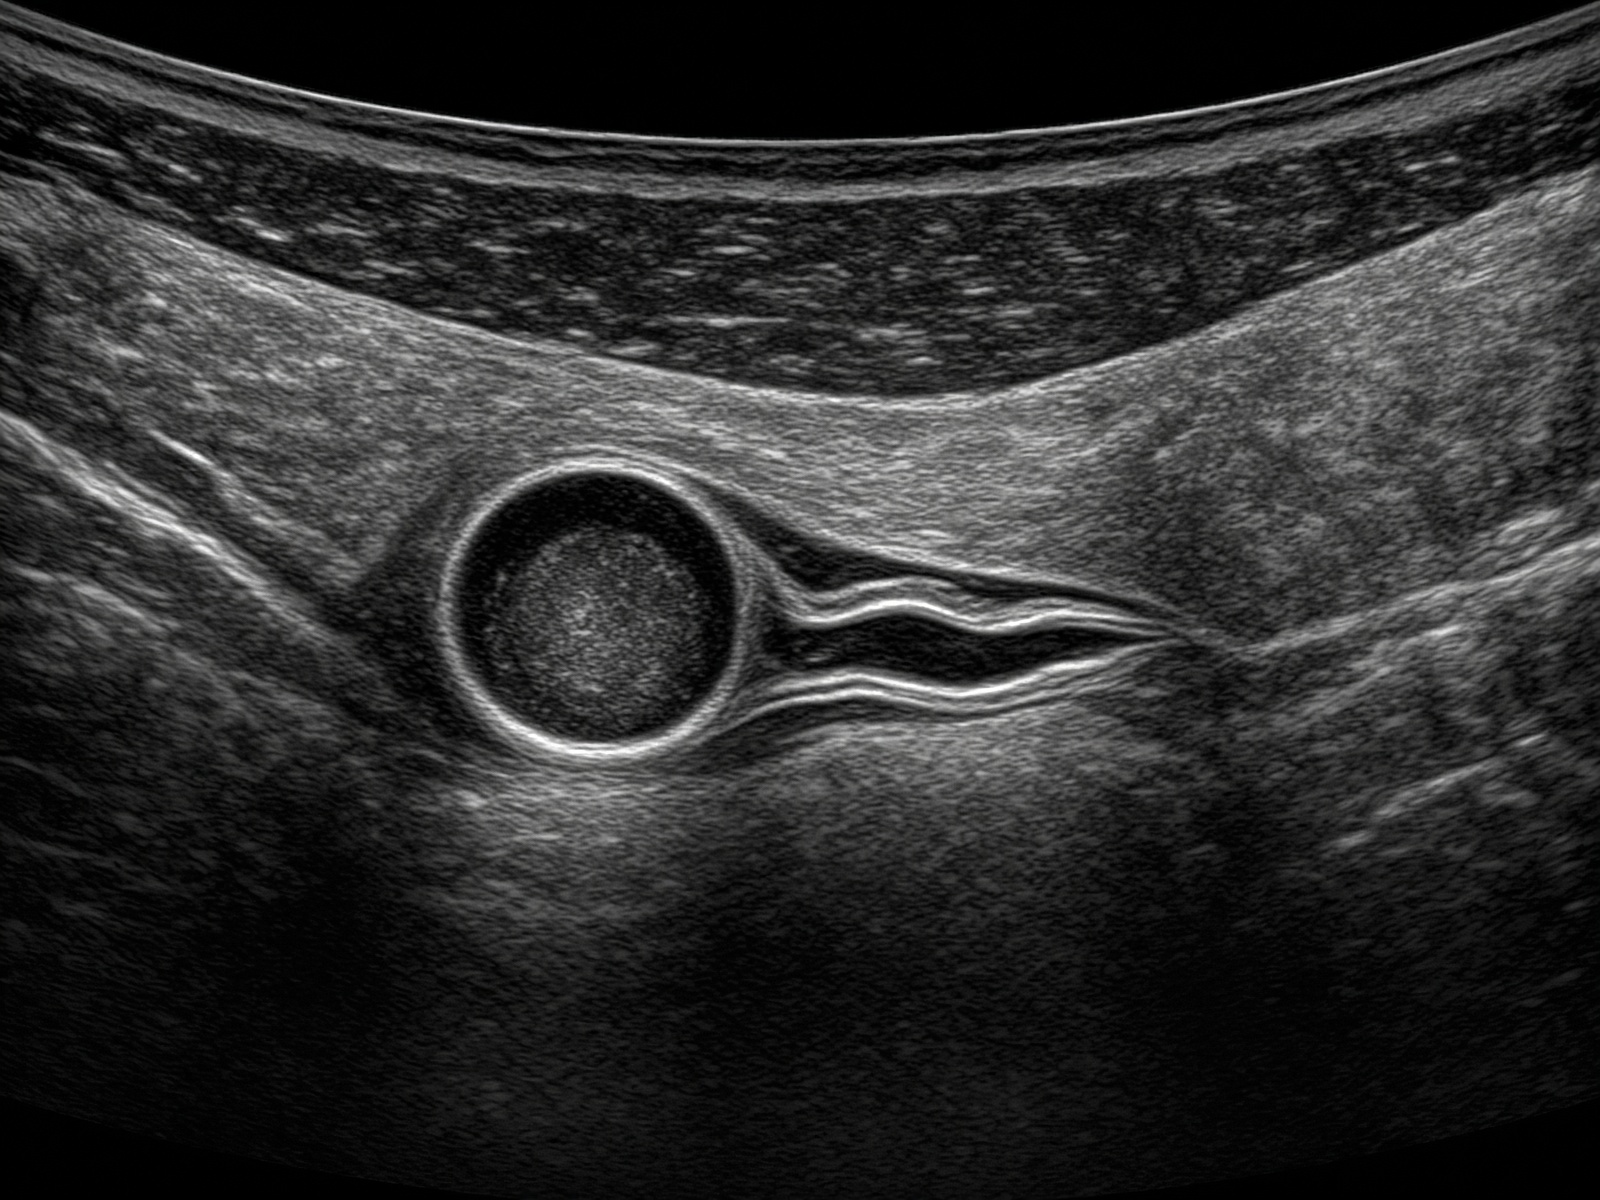
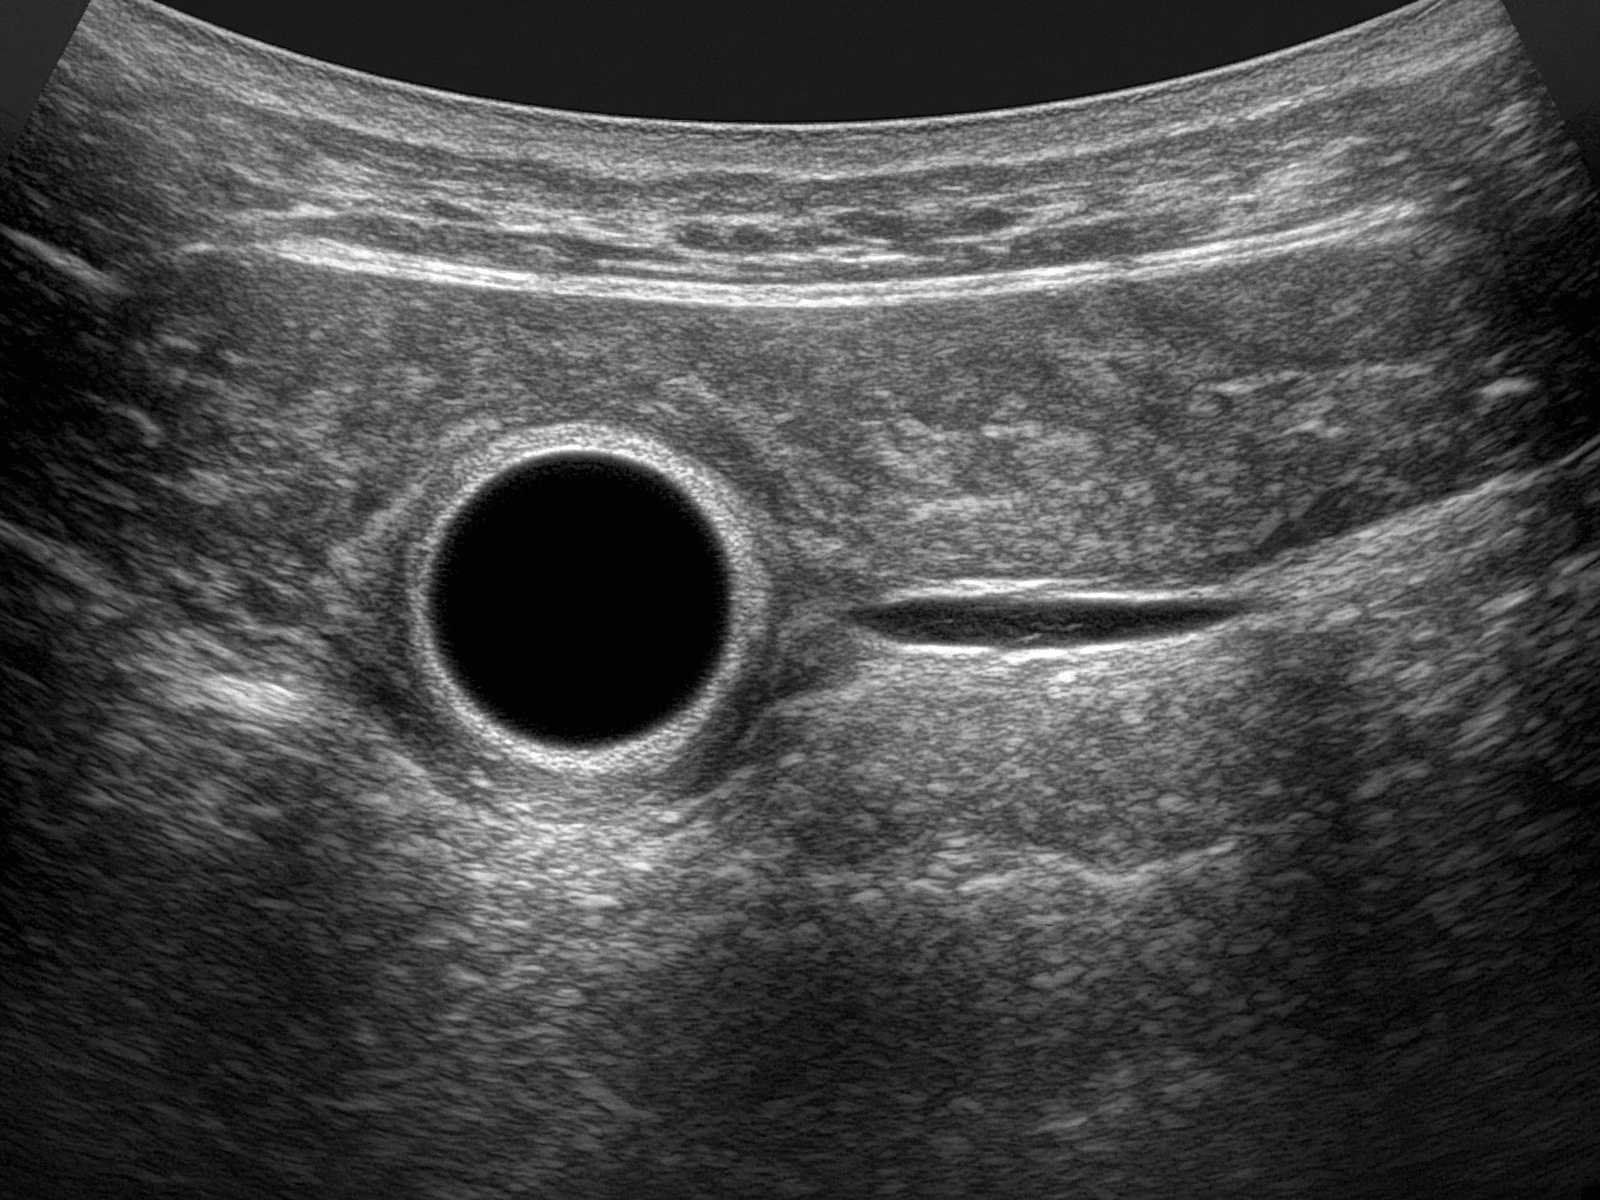
Show the eyes, mark the optic-nerve site, and animate the echo.

diff --git a/pocus-lab.html b/pocus-lab.html
@@ -92,14 +92,14 @@ const SHOTS = {
   consol:{title:"Consolidation", src:"pocus/consol.jpg", motion:"shimmer", labels:[["Lung",48,48,16,40],["Air",58,55,84,62]], note:"The lung looks like tissue. Bright branches are air bronchograms."},
   fluid:{title:"Free fluid, Morrison's pouch", src:"pocus/morrison.jpg", labels:[["Liver",40,38,16,30],["FF",52,52,84,46],["Kid",62,64,84,72]], note:"The black stripe between liver and kidney is free fluid. A normal liver on this view does not clear the rest of the abdomen."},
   bladder:{title:"Bladder", src:"pocus/bladder.jpg", labels:[["Bladder",48,48,16,40],["Balloon",55,58,84,66]], note:"Anechoic bladder. The round bright structure is the catheter balloon."},
-  onsd:{title:"Optic nerve sheath", src:"pocus/onsd.jpg", labels:[["Globe",30,52,14,28],["3mm",46,40,46,16],["ONS",64,48,86,30]], note:"Closed eyelid, transverse. The black circle is the globe. The dark track is the optic nerve sheath. Measure it 3 mm behind the globe. More than 5 mm in an adult raises concern for raised intracranial pressure. This still is not a caliper reading."},
+  onsd:{title:"Optic nerve sheath", src:"pocus/onsd.jpg", labels:[["Globe",28,50,12,30],["ONS",66,46,84,28]], note:"Closed eyelid, transverse. The black circle is the globe. The dark track is the optic nerve sheath. The amber marks are 3 mm behind the globe, where the sheath diameter is measured. More than 5 mm in an adult raises concern for raised intracranial pressure. This still is not a caliper reading on a real patient."},
   inguinal:{title:"Right groin, before compression", src:"pocus/vein.jpg", labels:[["CFA",38,52,14,44],["CFV",64,54,88,46]], note:"The artery is round and its lumen is empty. The vein is the larger oval lumen, also empty. Slide down to compress."},
   inguinalClot:{title:"Left groin, thrombus", src:"pocus/dvt.jpg", labels:[["CFA",36,50,14,42],["CFV",64,50,88,40],["Thr",64,50,88,66]], note:"The vein on the right of the image is filled. Sliding down does not close it."},
   pop:{title:"Right knee, before compression", src:"pocus/pop.jpg", labels:[["PA",38,54,16,36],["PV",62,54,86,40]], note:"Behind the knee. Both lumens are empty. The round vessel is the artery. The larger one beside it is the popliteal vein. Slide down to compress."},
   popClot:{title:"Left knee, thrombus", src:"pocus/popclot.jpg", labels:[["PA",36,54,14,44],["PV",62,54,88,44],["Thr",62,54,88,68]], note:"The popliteal vein is filled. It does not collapse."},
   calf:{title:"Right calf, before compression", src:"pocus/calf.jpg", labels:[["Art",50,40,50,24],["V1",38,62,16,74],["V2",62,62,86,74]], note:"The upper round lumen is the artery, and it is empty. The two below are paired calf veins, also empty. Slide down to compress."},
   calfClot:{title:"Left calf, thrombus", src:"pocus/calfclot.jpg", labels:[["Art",50,38,50,26],["V1",42,54,16,64],["V2",58,54,86,64],["Thr",50,54,84,74]], note:"The paired calf veins are filled. They do not collapse."},
-  shut:{title:"Compressed, vein closed", src:"pocus/veinshut.jpg", labels:[["Art",36,52,14,42],["Closed",70,48,88,40]], note:"The round lumen is the artery. The vein is the flat line: the walls have met."}
+  shut:{title:"Compressed, vein closed", src:"pocus/veinshut.jpg", labels:[["Art",38,48,14,34],["Closed",66,46,88,34]], note:"The round lumen is the artery, and it is empty. The flat line is the vein: the walls have met."}
 };
 
 let compressed = false;
@@ -188,6 +188,31 @@ function drawEcho(){
     ectx.lineWidth = 3.5; ectx.strokeStyle = "rgba(0,0,0,.9)"; ectx.strokeText(lb[0], lx, ly);
     ectx.fillStyle = "#f3efe6"; ectx.fillText(lb[0], lx, ly);
   });
+  if(shot.src === "pocus/onsd.jpg"){
+    const wallX = ox + dw * 0.515;
+    const nerveY = oy + dh * 0.48;
+    const siteX = ox + dw * 0.575;
+    const top = oy + dh * 0.445;
+    const bot = oy + dh * 0.515;
+    ectx.strokeStyle = "#e2b48a";
+    ectx.lineWidth = 1.6;
+    ectx.beginPath();
+    ectx.moveTo(wallX, nerveY - 10);
+    ectx.lineTo(wallX, nerveY + 10);
+    ectx.moveTo(wallX, nerveY);
+    ectx.lineTo(siteX, nerveY);
+    ectx.moveTo(siteX, top);
+    ectx.lineTo(siteX, bot);
+    ectx.moveTo(siteX - 5, top);
+    ectx.lineTo(siteX + 5, top);
+    ectx.moveTo(siteX - 5, bot);
+    ectx.lineTo(siteX + 5, bot);
+    ectx.stroke();
+    ectx.fillStyle = "#f3efe6";
+    ectx.font = "600 12px Figtree, sans-serif";
+    ectx.fillText("3 mm", (wallX + siteX) / 2, nerveY - 16);
+    ectx.fillText("ONSD", siteX, bot + 14);
+  }
 }
 function legend(shot){
   const seen = {};
@@ -358,7 +383,31 @@ function endPointer(e){
 body.addEventListener("pointerup", endPointer);
 body.addEventListener("pointercancel", endPointer);
 
-document.getElementById("back").onclick = function(){ location.href = "index.html"; };
+function seatEyes(model){
+  const bodyPart = model.getObjectByName("body");
+  if(!bodyPart) return;
+  const mid = new THREE.Box3().setFromObject(bodyPart).getCenter(new THREE.Vector3());
+  const found = [];
+  model.traverse(function(obj){
+    if(!obj.isMesh) return;
+    const n = (obj.name || "").toLowerCase();
+    if(n === "eyes" || n === "irises" || n === "pupils") found.push(obj);
+  });
+  found.forEach(function(mesh){
+    const previous = mesh.material;
+    const n = (mesh.name || "").toLowerCase();
+    const color = n === "eyes" ? 0xf4f1ea : n === "irises" ? 0x4a3024 : 0x111111;
+    mesh.material = new THREE.MeshBasicMaterial({ color: color, side: THREE.DoubleSide, polygonOffset: true, polygonOffsetFactor: -8, polygonOffsetUnits: -8 });
+    mesh.renderOrder = 8;
+    const c = new THREE.Box3().setFromObject(mesh).getCenter(new THREE.Vector3());
+    const face = new THREE.Vector3(0, 0, c.z >= mid.z ? 1 : -1);
+    const start = mesh.getWorldPosition(new THREE.Vector3());
+    const end = mesh.parent.worldToLocal(start.add(face.multiplyScalar(0.012)));
+    mesh.position.copy(end);
+    if(previous && previous.dispose && previous !== mesh.material) previous.dispose();
+  });
+  model.updateMatrixWorld(true);
+}
 
 new GLTFLoader().load("models/anatomy/human-reference.glb", function(gltf){
   const model = gltf.scene;
@@ -396,6 +445,7 @@ new GLTFLoader().load("models/anatomy/human-reference.glb", function(gltf){
   });
   scene.add(model);
   model.updateMatrixWorld(true);
+  seatEyes(model);
   eyeBox.makeEmpty();
   model.traverse(function(obj){
     if(!obj.isMesh) return;

diff --git a/echo-lab.html b/echo-lab.html
@@ -51,7 +51,7 @@ body.bust3d #bust{z-index:2}
 body.bust3d .patient{visibility:hidden}
 .shlab{display:none;position:absolute;z-index:2;margin:0;color:#e7f6fb;font-size:11px;pointer-events:none;transform:translate(-50%,-130%)}
 body.bust3d #probe,body.bust3d #contact{display:none}
-.win{display:none;position:absolute;width:26px;height:26px;margin:-13px 0 0 -13px;border:2px solid rgba(159,212,255,.9);border-radius:50%;pointer-events:none;z-index:4;box-shadow:0 0 0 1px rgba(7,17,26,.6)}
+.win{display:none;position:absolute;width:46px;height:46px;margin:-23px 0 0 -23px;border:2px solid rgba(159,212,255,.9);border-radius:50%;pointer-events:none;z-index:4;box-shadow:0 0 0 1px rgba(7,17,26,.6)}
 body.bust3d .win{display:block}
 .win.on{border-color:#e2b48a;box-shadow:0 0 10px rgba(226,180,138,.75)}
 #probe svg{width:40px;height:64px;display:block}
@@ -392,11 +392,11 @@ function onBody(x, y){
   return x >= 8 && x <= 92 && y >= 20 && y <= 93;
 }
 const WINDOWS = [
-  {id:"ssn", x:50, y:29, r:8},
-  {id:"para", x:63, y:44, r:15},
-  {id:"apex", x:76, y:58, r:12},
-  {id:"sub", x:50, y:76, r:10},
-  {id:"ivc", x:37, y:78, r:9}
+  {id:"ssn", x:50, y:29, r:12},
+  {id:"para", x:63, y:44, r:20},
+  {id:"apex", x:76, y:58, r:16},
+  {id:"sub", x:50, y:76, r:14},
+  {id:"ivc", x:37, y:78, r:12}
 ];
 function nearestWindow(x, y){
   let best = null, bd = 1e9;
@@ -815,6 +815,20 @@ function drawStill(ctx, w, h, img, labels){
   if(cr > ir){ dh = h; dw = h * ir; ox = (w - dw) / 2; oy = 0; }
   else { dw = w; dh = w / ir; ox = 0; oy = Math.min(8, Math.max(0, (h - dh) / 2)); }
   ctx.drawImage(img, ox, oy, dw, dh);
+  const beat = (performance.now() / 1000) % 0.86;
+  const sys = beat < 0.30 ? Math.sin((beat / 0.30) * Math.PI) : 0;
+  if(sys > 0.02){
+    const squeeze = 1 - sys * 0.06;
+    ctx.save();
+    ctx.beginPath();
+    ctx.rect(ox, oy, dw, dh);
+    ctx.clip();
+    ctx.translate(ox + dw * 0.5, oy + dh * 0.58);
+    ctx.scale(squeeze, squeeze);
+    ctx.translate(-(ox + dw * 0.5), -(oy + dh * 0.58));
+    ctx.drawImage(img, ox, oy, dw, dh);
+    ctx.restore();
+  }
   ctx.font = "600 13px Figtree, sans-serif";
   ctx.textAlign = "center";
   ctx.textBaseline = "middle";
@@ -1863,7 +1877,7 @@ function releaseGraphics(){
 }
 document.getElementById("back").onclick = function(){
   releaseGraphics();
-  if(mode){ location.href = "echo-lab.html?v=20261101j"; return; }
+  if(mode){ location.href = "echo-lab.html?v=20261101k"; return; }
   try{
     if(window.parent && window.parent!==window && typeof window.parent.returnToIcu==="function"){
       window.parent.returnToIcu();
@@ -1875,7 +1889,7 @@ document.getElementById("back").onclick = function(){
 document.getElementById("doors").onclick = function(event){
   const btn = event.target.closest("[data-door]");
   if(!btn) return;
-  location.href = "echo-lab.html?mode="+btn.getAttribute("data-door")+"&v=20261101j";
+  location.href = "echo-lab.html?mode="+btn.getAttribute("data-door")+"&v=20261101k";
 };
 document.getElementById("tabs").innerHTML = TABS.map(function(tab){
   return "<button type='button' data-tab='"+tab[0]+"'>"+tab[1]+"</button>";

diff --git a/hub.html b/hub.html
@@ -595,7 +595,7 @@ const ORGANS = [
     plate:"plates/heart.jpg",
     learn:[
       ["Cardiac Anatomy Lab","A real heart model. Chambers, valves, coronaries, flow and the conduction drawing.","cardiac-lab.html?v=20261030b"],
-      ["Echo bay","Finger on the chest. The probe, the coronary territory, the wall motion and the trace move together.","echo-lab.html?v=20261101j"],
+      ["Echo bay","Finger on the chest. The probe, the coronary territory, the wall motion and the trace move together.","echo-lab.html?v=20261101k"],
       ["ACLS, 2025 AHA","Arrest, tachycardia and bradycardia, with the current doses.","ACLS_Interactive_Simulator_2025_AHA_v2.html?v=20261030b"],
       ["Shock identification","MAP, cardiac index and the phenotype.","Shock_Identification_Management_Simulator.html?v=20260925s"],
       ["Shock and POCUS","RUSH exam, ScvO2 and lactate.","Shock_POCUS_RUSH_Simulator.html?v=20260925l"],
@@ -2118,7 +2118,7 @@ document.getElementById("rail-tabs").addEventListener("click", function(event){
   if(tab==="train"){ if(window.openBody) window.openBody(); return; }
   if(tab==="test"){ mcqSystem=null; mcqPicked=null; renderTest(); return; }
   if(tab==="abg"){ renderAbg(); return; }
-  if(tab==="pocus"){ location.href = "pocus-lab.html?v=20261101d"; return; }
+  if(tab==="pocus"){ location.href = "pocus-lab.html?v=20261101e"; return; }
   openRail(tab);
 });
 document.getElementById("organ-bubbles").addEventListener("click", function(event){

diff --git a/index.html b/index.html
@@ -595,7 +595,7 @@ const ORGANS = [
     plate:"plates/heart.jpg",
     learn:[
       ["Cardiac Anatomy Lab","A real heart model. Chambers, valves, coronaries, flow and the conduction drawing.","cardiac-lab.html?v=20261030b"],
-      ["Echo bay","Finger on the chest. The probe, the coronary territory, the wall motion and the trace move together.","echo-lab.html?v=20261101j"],
+      ["Echo bay","Finger on the chest. The probe, the coronary territory, the wall motion and the trace move together.","echo-lab.html?v=20261101k"],
       ["ACLS, 2025 AHA","Arrest, tachycardia and bradycardia, with the current doses.","ACLS_Interactive_Simulator_2025_AHA_v2.html?v=20261030b"],
       ["Shock identification","MAP, cardiac index and the phenotype.","Shock_Identification_Management_Simulator.html?v=20260925s"],
       ["Shock and POCUS","RUSH exam, ScvO2 and lactate.","Shock_POCUS_RUSH_Simulator.html?v=20260925l"],
@@ -2118,7 +2118,7 @@ document.getElementById("rail-tabs").addEventListener("click", function(event){
   if(tab==="train"){ if(window.openBody) window.openBody(); return; }
   if(tab==="test"){ mcqSystem=null; mcqPicked=null; renderTest(); return; }
   if(tab==="abg"){ renderAbg(); return; }
-  if(tab==="pocus"){ location.href = "pocus-lab.html?v=20261101d"; return; }
+  if(tab==="pocus"){ location.href = "pocus-lab.html?v=20261101e"; return; }
   openRail(tab);
 });
 document.getElementById("organ-bubbles").addEventListener("click", function(event){
